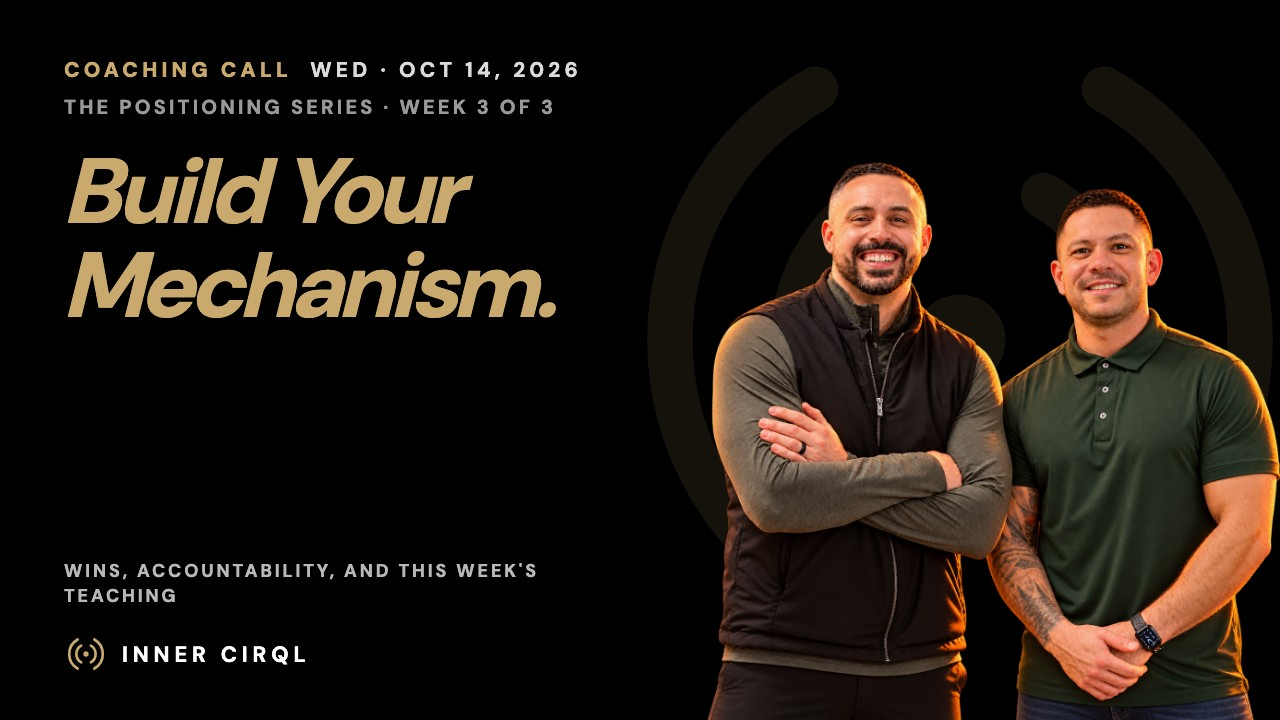
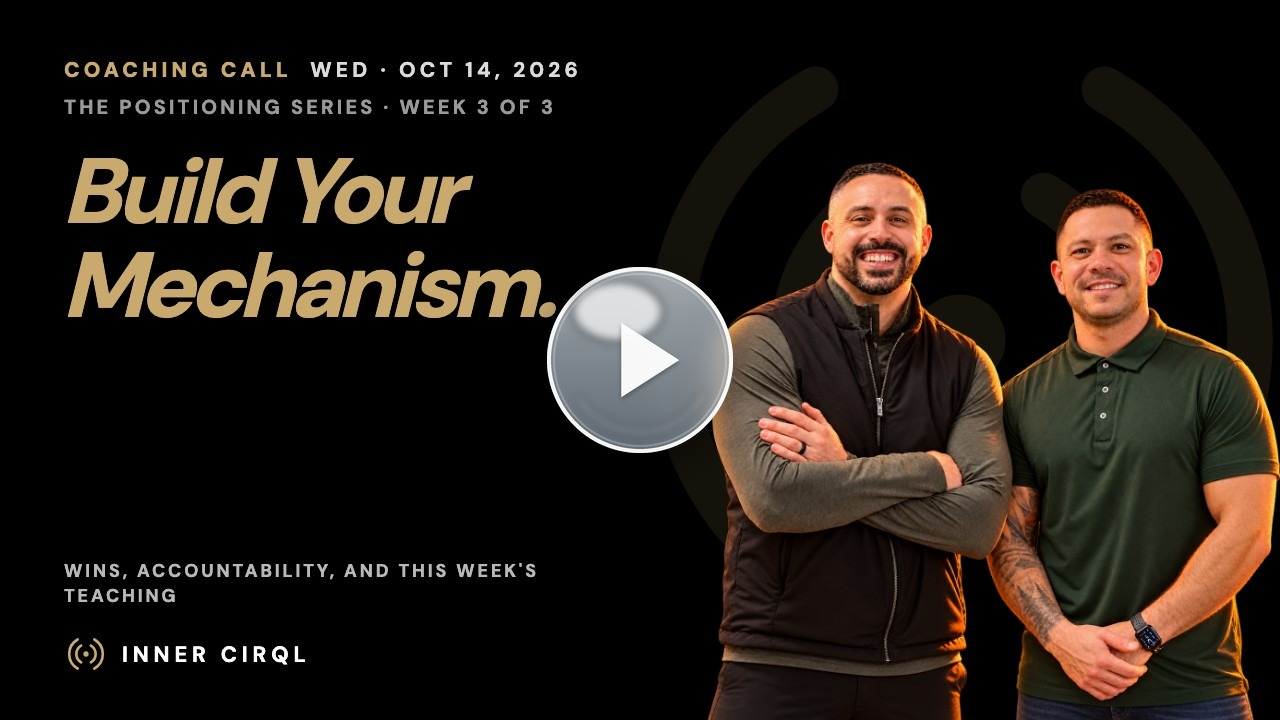
Training: retitle Oct 14 coaching call (The Positioning Series · Week 3 · Mechanism.) + thumbnail

Changed region(s): [[0.4062, 0.3667, 0.5938, 0.6417]]

diff --git a/training/index.html b/training/index.html
@@ -94,6 +94,26 @@ window.LIBRARY = {
   ],
   "items": [
     {
+      "id": "v-2026-10-14",
+      "date": "2026-10-14",
+      "dateLabel": "October 14, 2026",
+      "series": "positioning",
+      "week": 3,
+      "name": "Mechanism.",
+      "title": "The Positioning Series · Week 3 · Mechanism.",
+      "headline": [
+        "Build Your",
+        "Mechanism."
+      ],
+      "sub": "The Positioning Series · Week 3 of 3",
+      "desc": "The capstone: the six-line Mechanism that explains why everything they've tried has failed and why your Mechanism is different. Kayla's Mechanism, Name the Trap, Show the Way Out, and three examples that land. Wins, accountability, and the teaching segment, edited replay.",
+      "href": "https://coach.theinnercirql.com/2026-10-14/",
+      "pdf": null,
+      "slides": null,
+      "embed": "https://www.youtube.com/embed/C7iZYOLsMBM?rel=0&modestbranding=1",
+      "thumb": "/assets/thumbs/oct-14-call.jpg?v=29920130"
+    },
+    {
       "id": "v-2026-10-07",
       "date": "2026-10-07",
       "dateLabel": "October 7, 2026",
@@ -532,26 +552,6 @@ window.LIBRARY = {
       "slides": null,
       "embed": "https://www.youtube.com/embed/TAK0x6sg4_Q?rel=0&modestbranding=1",
       "thumb": "/assets/thumbs/oct-28-call.jpg?v=1"
-    },
-    {
-      "id": "v-2026-10-14",
-      "date": "2026-10-14",
-      "dateLabel": "October 14, 2026",
-      "series": "positioning",
-      "week": 3,
-      "name": "Mechanism.",
-      "title": "The Positioning Series · Week 3 · Mechanism.",
-      "headline": [
-        "Build Your",
-        "Mechanism."
-      ],
-      "sub": "The Positioning Series · Week 3 of 3",
-      "desc": "The capstone: the six-line Mechanism that explains why everything they've tried has failed and why your Mechanism is different. Kayla's Mechanism, Name the Trap, Show the Way Out, and three examples that land. Wins, accountability, and the teaching segment, edited replay.",
-      "href": "https://coach.theinnercirql.com/2026-10-14/",
-      "pdf": null,
-      "slides": null,
-      "embed": "https://www.youtube.com/embed/C7iZYOLsMBM?rel=0&modestbranding=1",
-      "thumb": "/assets/thumbs/oct-14-call.jpg?v=1"
     },
     {
       "id": "t-become-a-listing-magnet",
